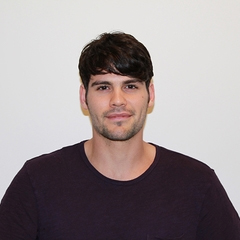
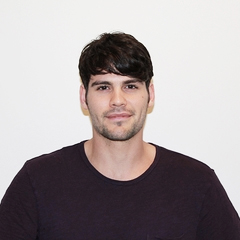
fixing some more images. greyscale

Changed region(s): [[0.3208, 0.2917, 0.6417, 0.5542], [0.3792, 0.5833, 0.6708, 0.7583], [0.35, 0.5833, 0.3792, 0.6417]]

diff --git a/fullwebsite/css/main.scss b/fullwebsite/css/main.scss
@@ -765,10 +765,11 @@ and (max-device-width : 767px) {
                 padding: 10%;
                 border-radius: 150px;
                 width: 100%;
-                filter: gray;
+                -webkit-filter: grayscale(100%);
+                transition: all 1s ease-in-out;
             }
             img:hover {
-                filter: none;
+                -webkit-filter: grayscale(0%);
             }
             h3 {
                 margin-bottom: 5vh;

diff --git a/fullwebsite/css/main.css b/fullwebsite/css/main.css
@@ -711,10 +711,11 @@ div.clear {
   padding: 10%;
   border-radius: 150px;
   width: 100%;
-  filter: gray;
+  -webkit-filter: grayscale(100%);
+  transition: all 1s ease-in-out;
 }
 .story-page .meet-the-team .selfie img:hover {
-  filter: none;
+  -webkit-filter: grayscale(0%);
 }
 .story-page .meet-the-team .selfie h3 {
   margin-bottom: 5vh;
